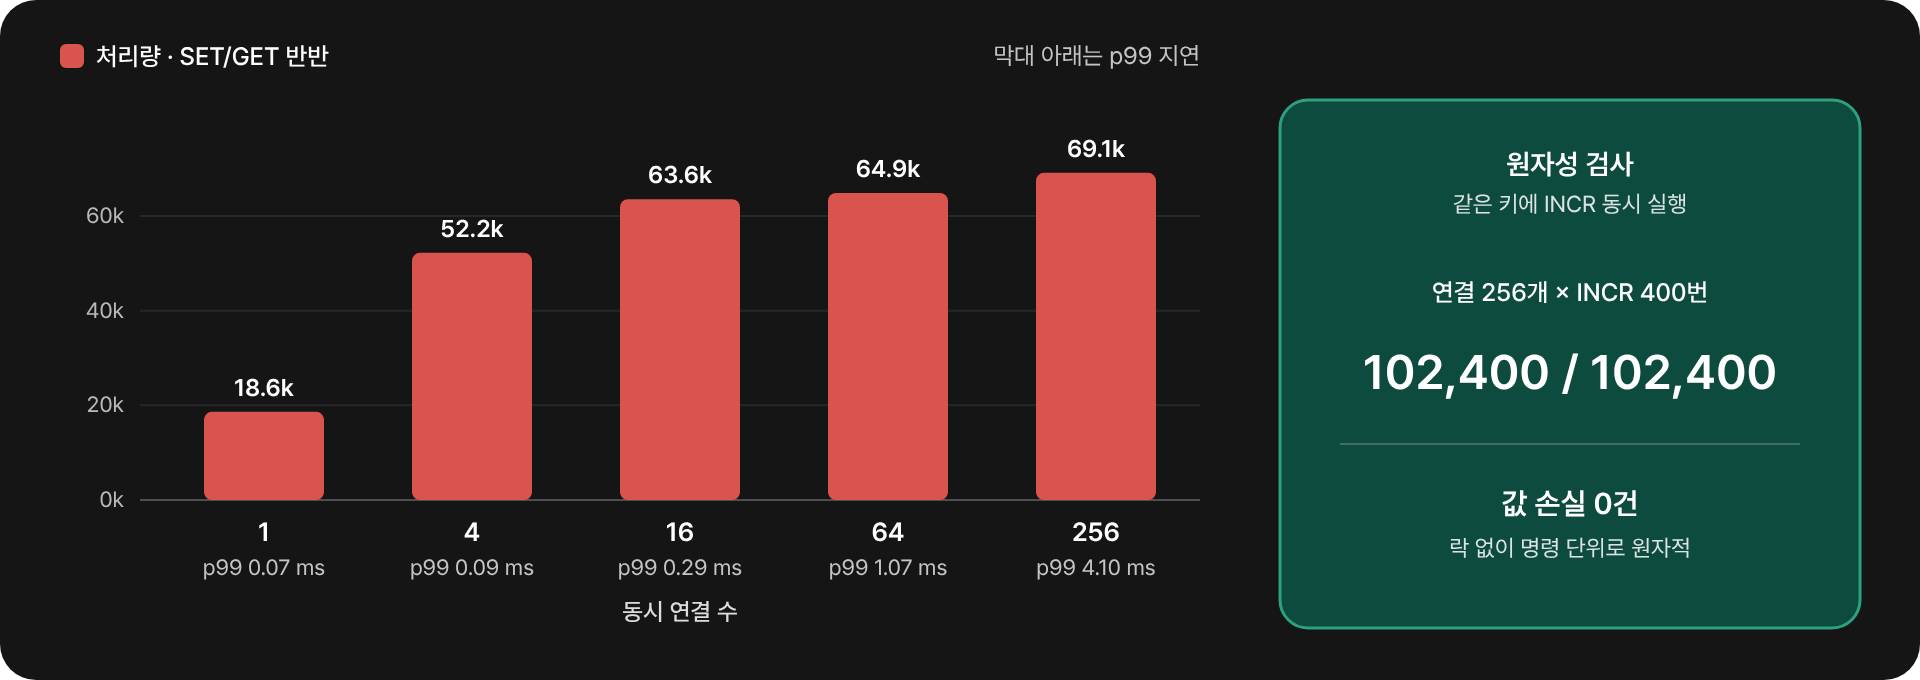
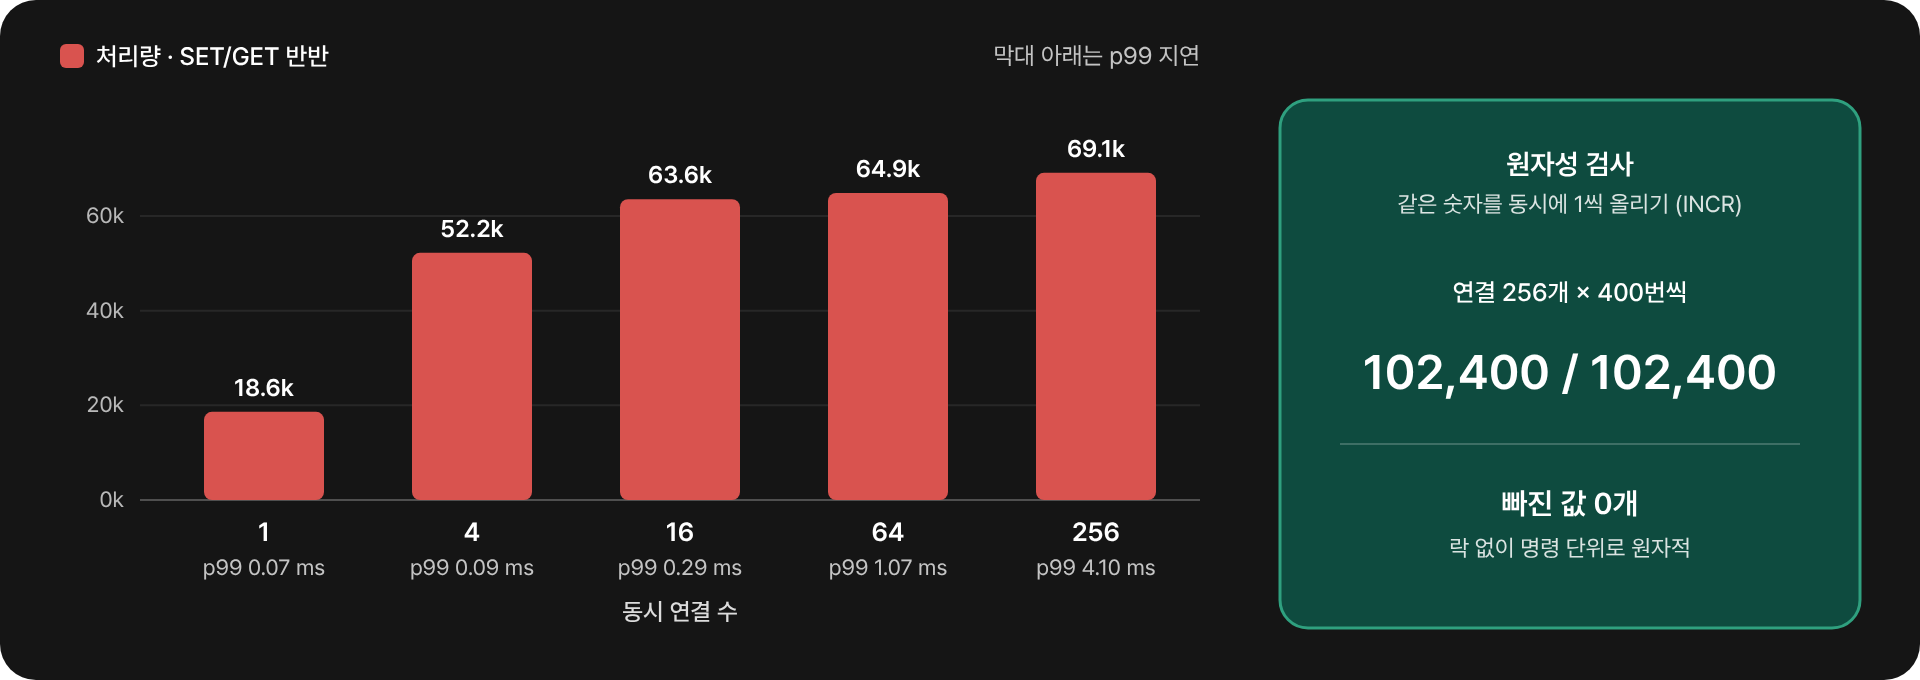
README 동시성 설명과 벤치마크 도해 갱신

Changed region(s): [[0.75, 0.4015, 0.9062, 0.4632], [0.7812, 0.7103, 0.875, 0.7721], [0.7188, 0.2779, 0.9062, 0.3088]]

diff --git a/readme.md b/readme.md
@@ -49,7 +49,7 @@ redis-cli TTL visits                  # (integer) 60
 
 | 과제 | 해결 | 코드 |
 | --- | --- | --- |
-| **동시성** | 싱글 스레드. 이벤트 루프 1개 + `await` 없는 `execute` → 명령이 섞이지 않아 락 불필요 | [server.py](miniredis/server.py) · [engine.py](miniredis/engine.py) |
+| **동시성** | 싱글 스레드. 이벤트 루프 1개가 모든 연결을 받고, 명령은 비동기 없이 동기 방식으로 하나씩 끝까지 실행 → 명령이 섞이지 않아 락 불필요 | [server.py](miniredis/server.py) · [engine.py](miniredis/engine.py) |
 | **만료된 값** | 접근할 때 검사해 삭제 + 0.1초마다 20개씩 이어서 정리 | [engine.py](miniredis/engine.py) |
 | **외부 API** | Redis와 같은 RESP2 프로토콜 → `redis-cli` 그대로 사용. HTTP 캐시 예제 포함 | [resp.py](miniredis/resp.py) · [examples/](examples) |
 | **무효화** | `DEL` · `EXPIRE` · `SET` 덮어쓰기. 모두 AOF에 기록돼 재시작 후에도 유지 | [engine.py](miniredis/engine.py) |
@@ -76,18 +76,6 @@ redis-cli TTL visits                  # (integer) 60
 | 키 | `DEL` · `EXISTS` · `TYPE` · `EXPIRE` · `TTL` |
 | 서버 | `PING` · `BGREWRITEAOF` |
 
-### API로 쓰기 — 캐시 예제
-
-SQLite 주문 8만 건의 집계 결과를 Mini Redis에 캐시하는 HTTP API.
-
-```sh
-python3 -m examples.cache_api --db orders.sqlite3 --cache on --ttl 30
-curl -i http://127.0.0.1:8080/reports/1    # X-Cache: MISS → SQLite에서 집계 후 SET ... EX 30
-curl -i http://127.0.0.1:8080/reports/1    # X-Cache: HIT  → Mini Redis에서 바로 응답
-```
-
-DB가 바뀌면 `DEL`로 바로 무효화. Mini Redis가 꺼져 있으면 `X-Cache: UNAVAILABLE`과 함께 SQLite 결과를 돌려줌.
-
 <br />
 
 ## Engine Side
@@ -107,7 +95,7 @@ DB가 바뀌면 `DEL`로 바로 무효화. Mini Redis가 꺼져 있으면 `X-Cac
 
 ![연결 A·B·C가 이벤트 루프 하나로 모여 한 번에 하나씩 실행](assets/single-thread.png)
 
-연결은 여러 개, 실행은 한 줄. `await`는 소켓을 기다릴 때만 있고 `execute`는 동기 함수라 **명령 단위로 원자적**. `INCR`을 동시에 보내도 값이 꼬이지 않음. 실제 Redis도 명령 실행은 스레드 하나.
+연결은 여러 개, 실행은 한 줄. 서버가 기다리는(비동기) 건 네트워크에서 요청이 올 때뿐이고, 명령 실행(`execute`)은 동기 방식이라 시작하면 중간에 멈추지 않고 끝까지 처리. 그래서 실행 도중 다른 명령이 끼어들 수 없어 **명령 단위로 원자적**. 여러 연결이 같은 숫자를 동시에 1씩 올려도(`INCR`) 차례로 하나씩 처리되니 빠지는 값 없이 정확히 더해지고, AOF에도 처리된 순서 그대로 기록됨. 실제 Redis도 명령 실행은 스레드 하나.
 
 ### 키 공간 — HashTable
 
@@ -161,9 +149,9 @@ DB가 바뀌면 `DEL`로 바로 무효화. Mini Redis가 꺼져 있으면 `X-Cac
 
 ### 동시 연결
 
-![동시 연결 수별 처리량과 INCR 원자성 검사](assets/bench-concurrency.png)
+![동시 연결 수별 처리량과, 같은 숫자를 동시에 1씩 올렸을 때의 정확도 검사](assets/bench-concurrency.png)
 
-연결 16개부터 63.6k~69.1k ops/s로 포화되고 256개까지 떨어지지 않음. 늘어나는 건 대기 시간(p99)뿐. 256개 연결이 같은 키에 `INCR` 102,400번을 동시에 보내도 결과는 정확히 102,400.
+연결 16개부터 63.6k~69.1k ops/s로 포화되고 256개까지 떨어지지 않음. 늘어나는 건 대기 시간(p99)뿐. 256개 연결이 같은 숫자를 동시에 1씩 올리는 명령(`INCR`)을 모두 102,400번 보내도 결과는 정확히 102,400 (빠진 값 0).
 
 ### 영속화 비용
 
@@ -239,12 +227,12 @@ python3 -m benchmarks.server
 ## FAQ
 
 **왜 멀티 스레드가 아닌가요?**<br />
-명령 하나는 몇 µs라 병목은 CPU가 아니라 네트워크 I/O. I/O는 이벤트 루프로 겹치고 실행은 한 줄로 세워 락과 경쟁 조건을 없앰.
+명령 하나를 처리하는 데는 몇 µs(100만분의 1초)밖에 안 걸립니다. 느린 쪽은 CPU가 아니라 요청이 네트워크로 오가는 시간입니다. 그래서 기다리는 일은 이벤트 루프가 여러 연결을 번갈아 맡고, 실제 실행은 한 줄로 세웠습니다. 실행하는 스레드가 하나뿐이라 서로 값을 덮어쓸 일이 없고, 락도 필요 없습니다.
 
 **대신 포기한 것은?**<br />
-CPU 코어 하나만 사용. `HashTable` 확장이나 RDB 스냅샷을 만드는 동안 다른 연결도 잠시 대기.
+CPU 코어를 하나만 씁니다. 그리고 오래 걸리는 작업이 도는 동안에는 다른 요청도 잠깐 기다립니다. 키가 많아져 HashTable을 2배로 늘릴 때나, RDB 스냅샷을 만들 때가 그렇습니다.
 
-**프로세스가 죽으면?**<br />
-AOF 기록은 응답 전에 OS로 넘어가 있어 남음. 기기 전원이 꺼질 때만 `everysec` 기준 마지막 약 1초 손실 가능.
+**서버가 갑자기 죽으면 데이터가 사라지나요?**<br />
+쓰기 명령은 응답하기 전에 AOF에 기록해 운영체제에 넘겨 두기 때문에, 서버 프로세스가 죽어도 기록은 남습니다. 컴퓨터 전원 자체가 꺼지는 경우에만 기본 설정(`everysec`)에서 마지막 약 1초 분량이 사라질 수 있습니다.
 
 [자세한 문서: 실행 흐름 · HashTable · 복구](docs/guide.md)
